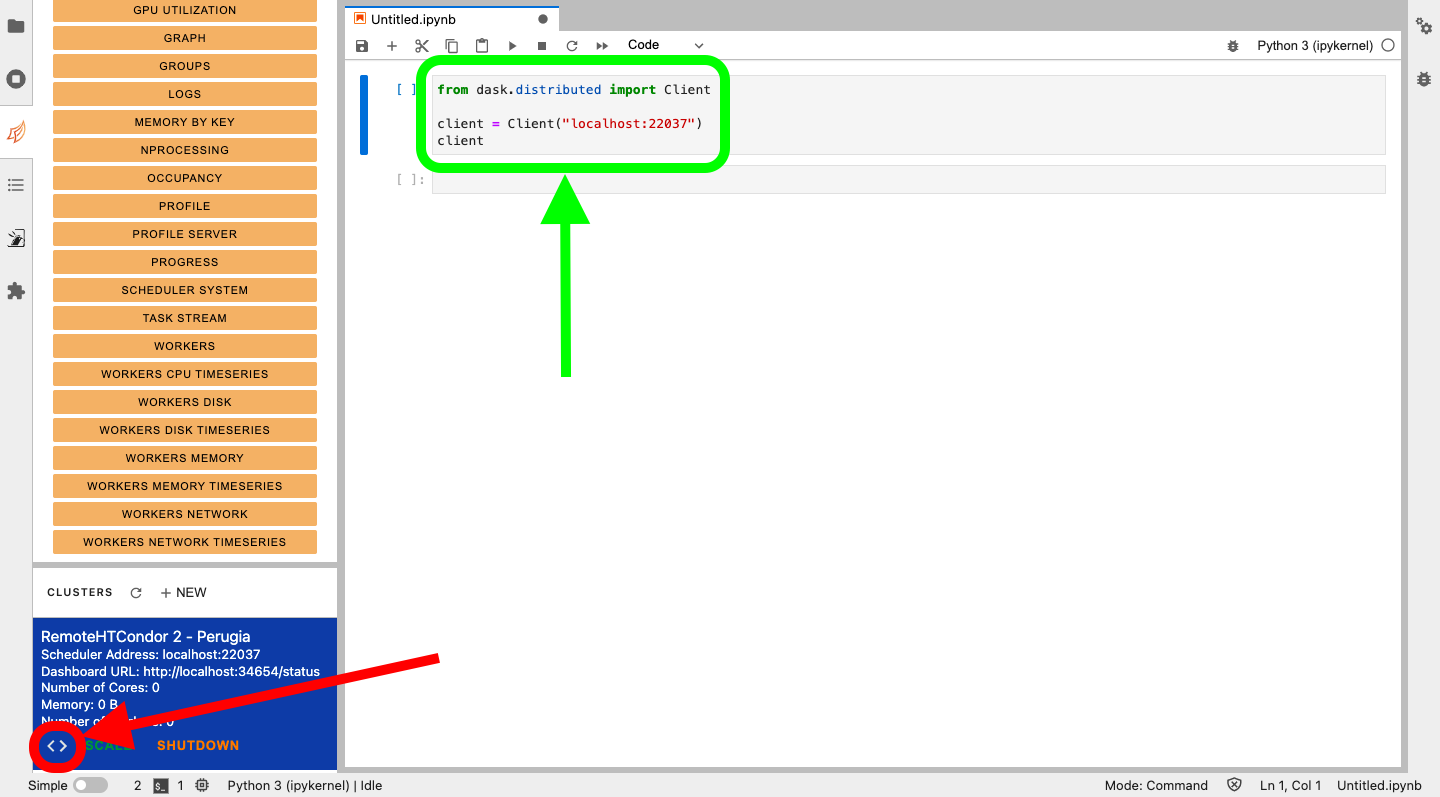
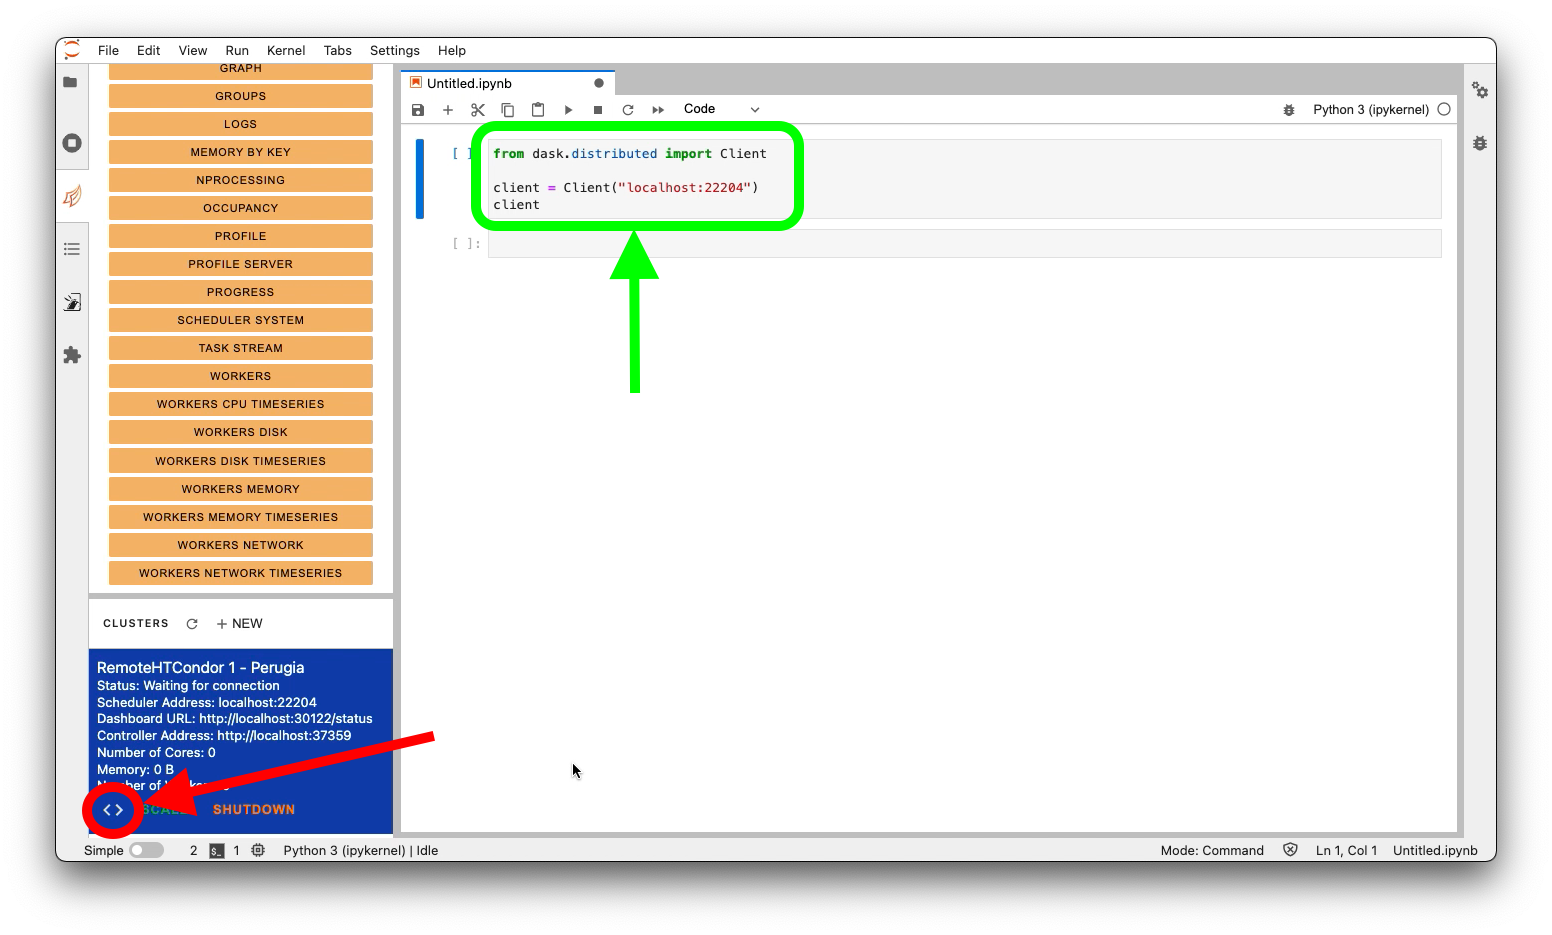
Update init guide

Changed region(s): [[0.0, 0.0, 1.0, 1.0]]

diff --git a/docs/tutorials/dask_init.md b/docs/tutorials/dask_init.md
@@ -41,9 +41,12 @@ the dashboard (blue square).
 
 ![dask cluster created](imgs/dask_init_created.png)
 
-> **NOTEs**: in the `Scheduler Address` field you will see the actual status of the
-> cluster creation. The cluster will be ready when there is present a valid
-> cluster address such as `localhost:12345`.
+> **NOTE**: in the `Status` field, you will see the actual state of the
+> cluster creation. The cluster will be ready when the state is `Running`.
+> In that situation, there will be a valid Scheduler address and Dashboard URL:
+> e.g. `localhost:12345`. During the creation, you could see `Status` like `Job is idle`
+> or `Waiting for connection`. In case of error, the `Status` will show the
+> reason for the issue.
 >
 > **NOTE**: it is not necessary to click on `Dashboard URL`, because the link
 > is not directly available outside the Dask Lab Extension. To select a cluster,

diff --git a/docs/tutorials/dask_scripting.md b/docs/tutorials/dask_scripting.md
@@ -55,6 +55,28 @@ cluster.scale(1)
 > cluster.scale(1)
 > sleep(60)
 > ```
+>
+> **NOTE**: it could be possible that the cluster controller is not yet reachable when you
+> try to `scale` your cluster. In this situation you could receive an exception like the following:
+>
+> ```python
+> /usr/local/[...]/dask_remote_jobqueue.py in scale(self, n)
+>     594 
+>     595         if not connected:
+> --> 596             raise Exception("Cluster is not reachable...")
+>     597 
+>     598         logger.debug("[Scheduler][scale][connection OK!]")
+>
+> Exception: Cluster is not reachable...
+> ```
+>
+> To fix this situation, just add a small sleep before the scale too, like follows:
+>
+> ```python
+> sleep(6) # Wait a bit before the scale
+> cluster.scale(1)
+> sleep(60)
+> ```
 
 Then, you can connect to the cluster with the Dask Client as follows:
 
